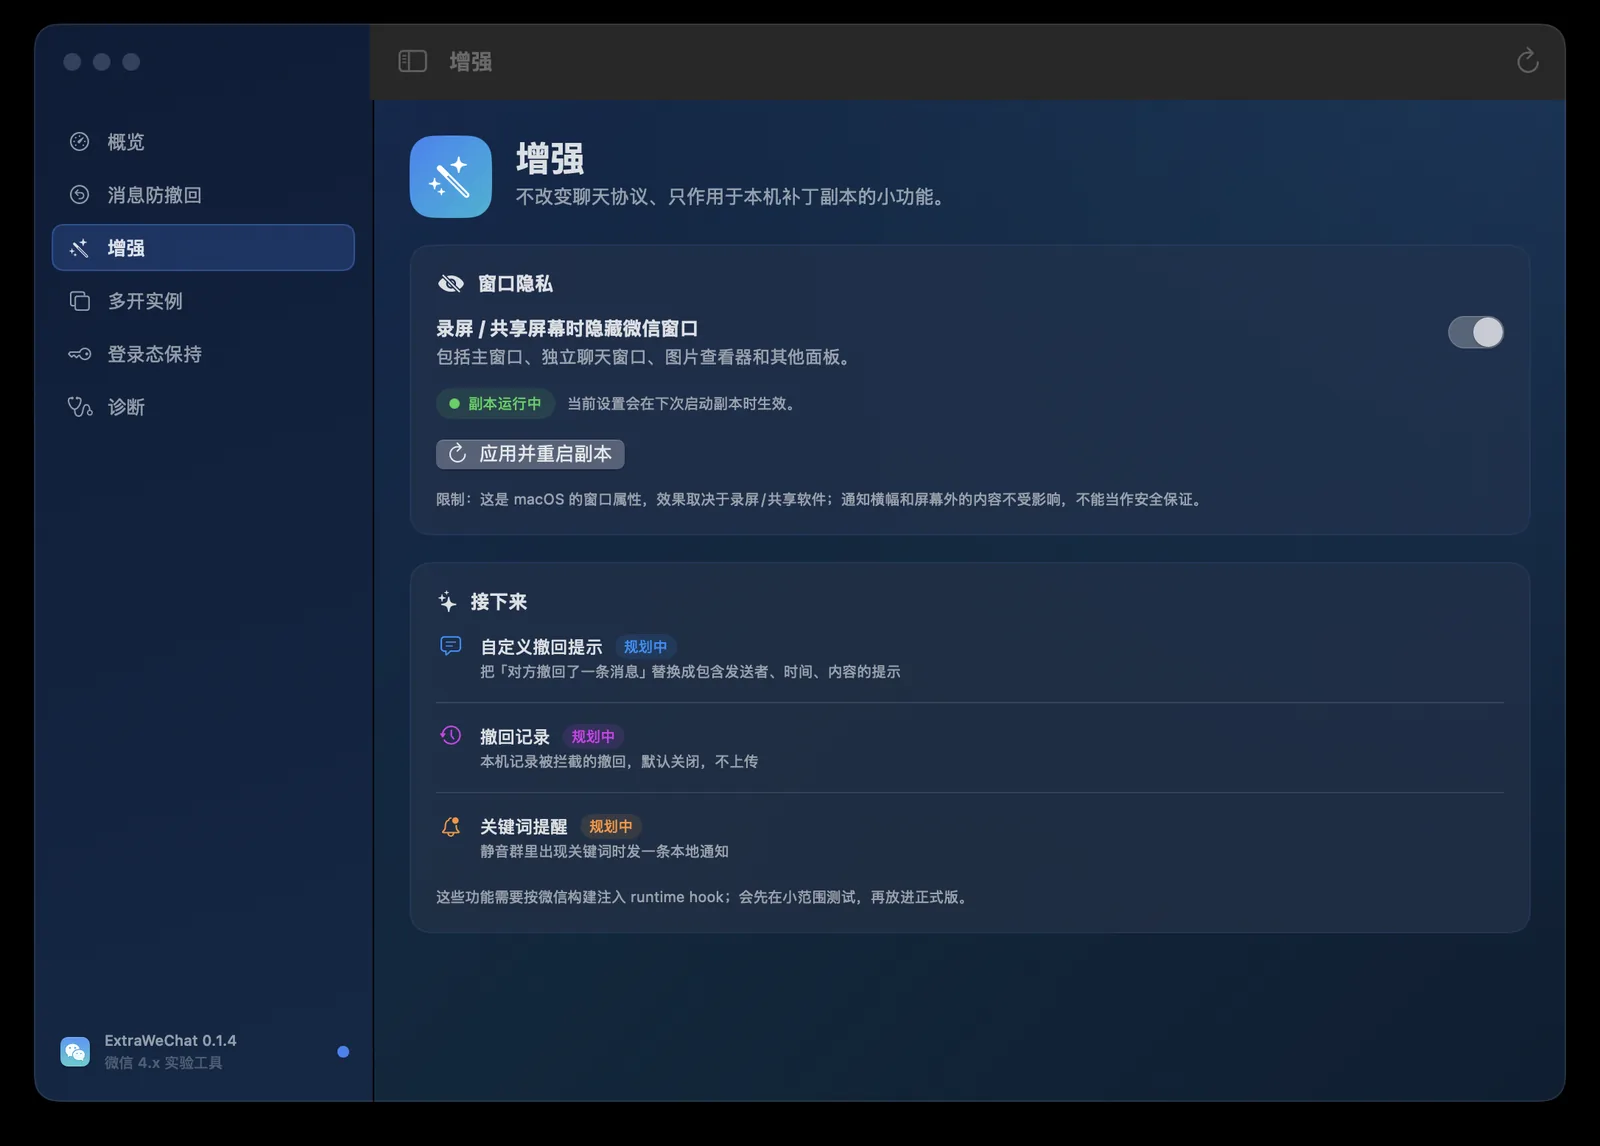
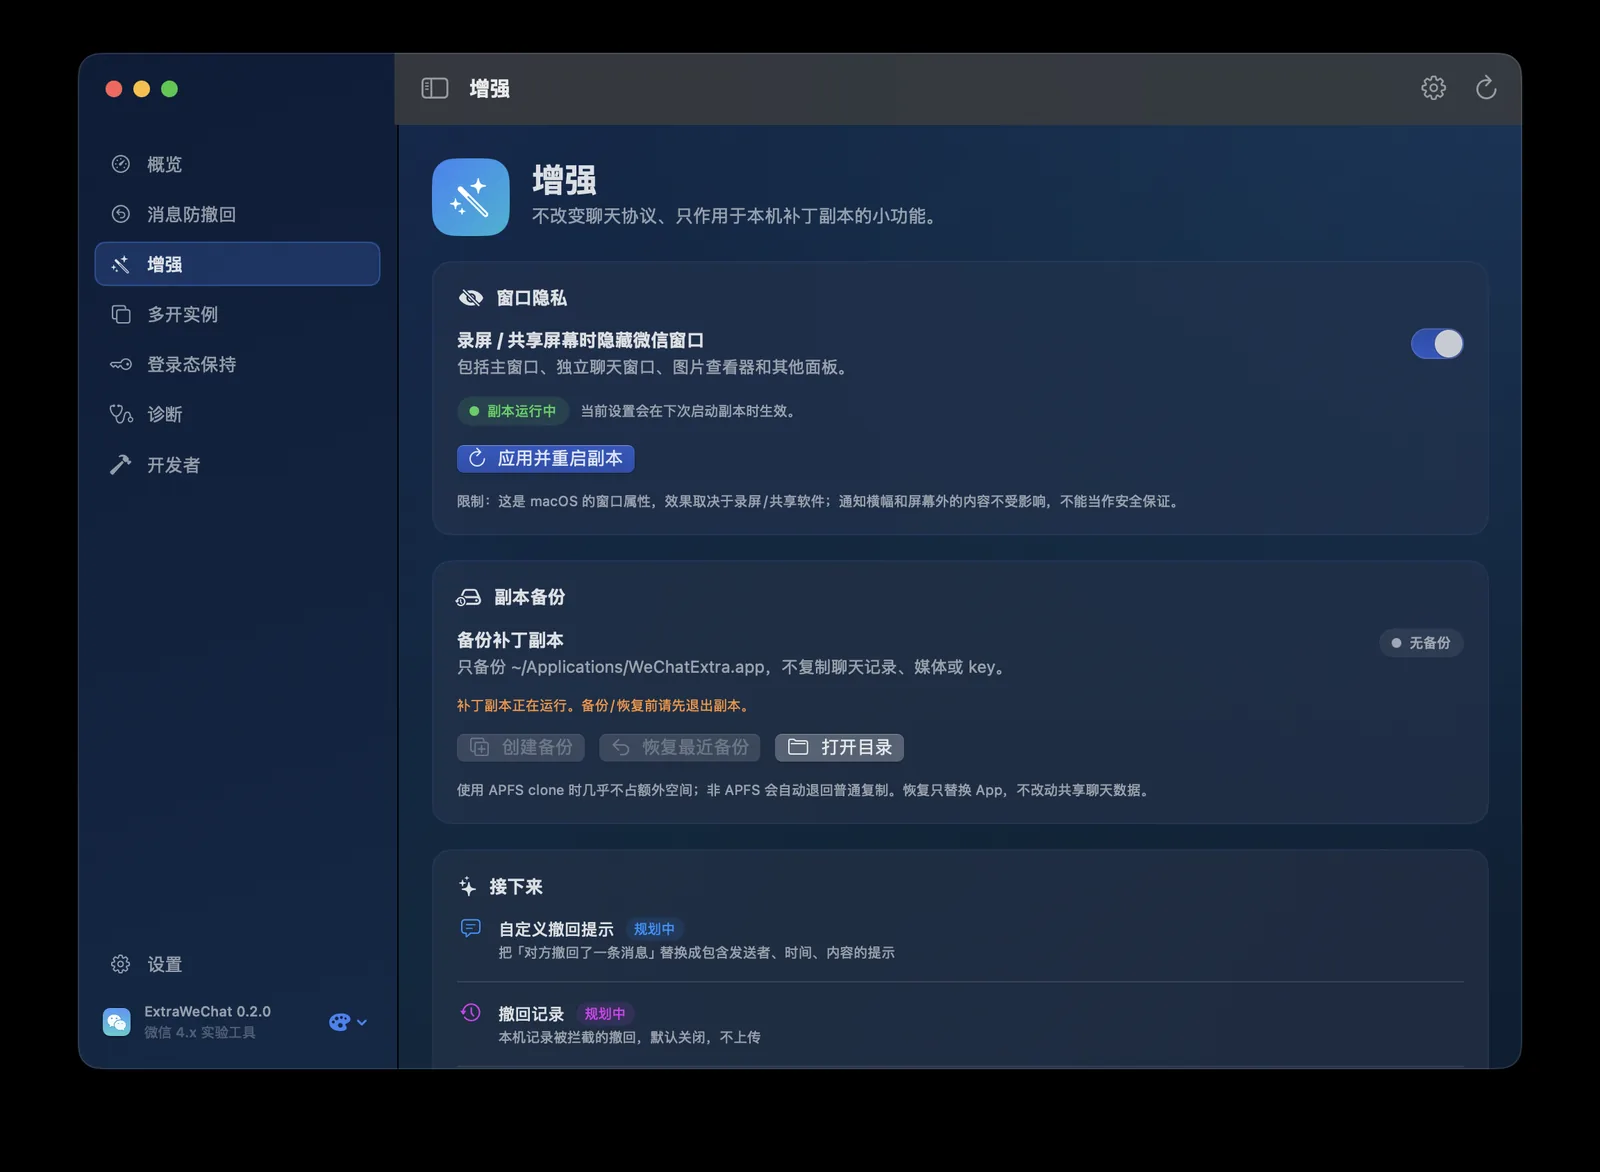
Add backup feature to website

diff --git a/site/index.html b/site/index.html
@@ -111,7 +111,7 @@
             <svg viewBox="0 0 24 24" aria-hidden="true"><rect x="8" y="8" width="11" height="11" rx="2" fill="none" stroke="currentColor" stroke-width="1.7"/><path d="M16 8V6a2 2 0 0 0-2-2H6a2 2 0 0 0-2 2v8a2 2 0 0 0 2 2h2" fill="none" stroke="currentColor" stroke-width="1.7"/></svg>
           </div>
           <h3>补丁副本</h3>
-          <p>复制到 <code>~/Applications</code> 后打补丁。不修改系统微信，不需要 root 或 App 管理权限。</p>
+          <p>复制到 <code>~/Applications</code> 后打补丁。不修改系统微信，不需要 root 或 App 管理权限；支持一键备份/恢复。</p>
           <span class="tag">推荐路径</span>
         </article>
 
@@ -166,7 +166,7 @@
       <div class="steps">
         <div class="step reveal"><span class="step-num">01</span><div><h3>退出原微信</h3><p>⌘Q 并等待 helper 退出。副本与原微信不能同时运行。</p></div></div>
         <div class="step reveal"><span class="step-num">02</span><div><h3>创建补丁副本</h3><p>选择静默或保留提示，ExtraWeChat 复制、打补丁并重签。</p></div></div>
-        <div class="step reveal"><span class="step-num">03</span><div><h3>正常使用</h3><p>从副本登录同一账号，聊天记录还在；微信更新后一键重建。</p></div></div>
+        <div class="step reveal"><span class="step-num">03</span><div><h3>正常使用</h3><p>从副本登录同一账号，聊天记录还在；需要时从备份恢复 App，微信更新后一键重建。</p></div></div>
       </div>
     </section>
 
@@ -191,7 +191,7 @@
         </figure>
         <figure class="shot reveal wide">
           <img src="assets/screenshots/enhancements.webp" alt="ExtraWeChat 增强与窗口隐私" decoding="async" width="1600" height="1146">
-          <figcaption><strong>增强</strong><span>窗口隐私和后续功能规划</span></figcaption>
+          <figcaption><strong>增强 / 备份</strong><span>窗口隐私、副本备份和后续功能规划</span></figcaption>
         </figure>
       </div>
     </section>
@@ -265,7 +265,12 @@
         </details>
         <details>
           <summary>微信更新后怎么办？</summary>
-          <p>打开 ExtraWeChat →「消息防撤回」。如果检测到主微信构建号变化，会提示副本需要更新；点「更新并启动」重建即可，聊天记录不会丢失。</p>
+          <p>打开 ExtraWeChat →「消息防撤回」。如果检测到主微信构建号变化，会提示副本需要更新；点「更新并启动」重建即可，聊天记录不会丢失。重建前也可以先在「增强 → 副本备份」留一份 App 备份。</p>
+        </details>
+
+        <details>
+          <summary>备份会包含聊天记录吗？</summary>
+          <p>不会。副本备份只复制 <code>~/Applications/WeChatExtra.app</code>，不包含聊天数据、媒体或登录 key。恢复也只替换 App，不动共享的微信数据容器。</p>
         </details>
         <details>
           <summary>支持哪些微信和 macOS？</summary>
